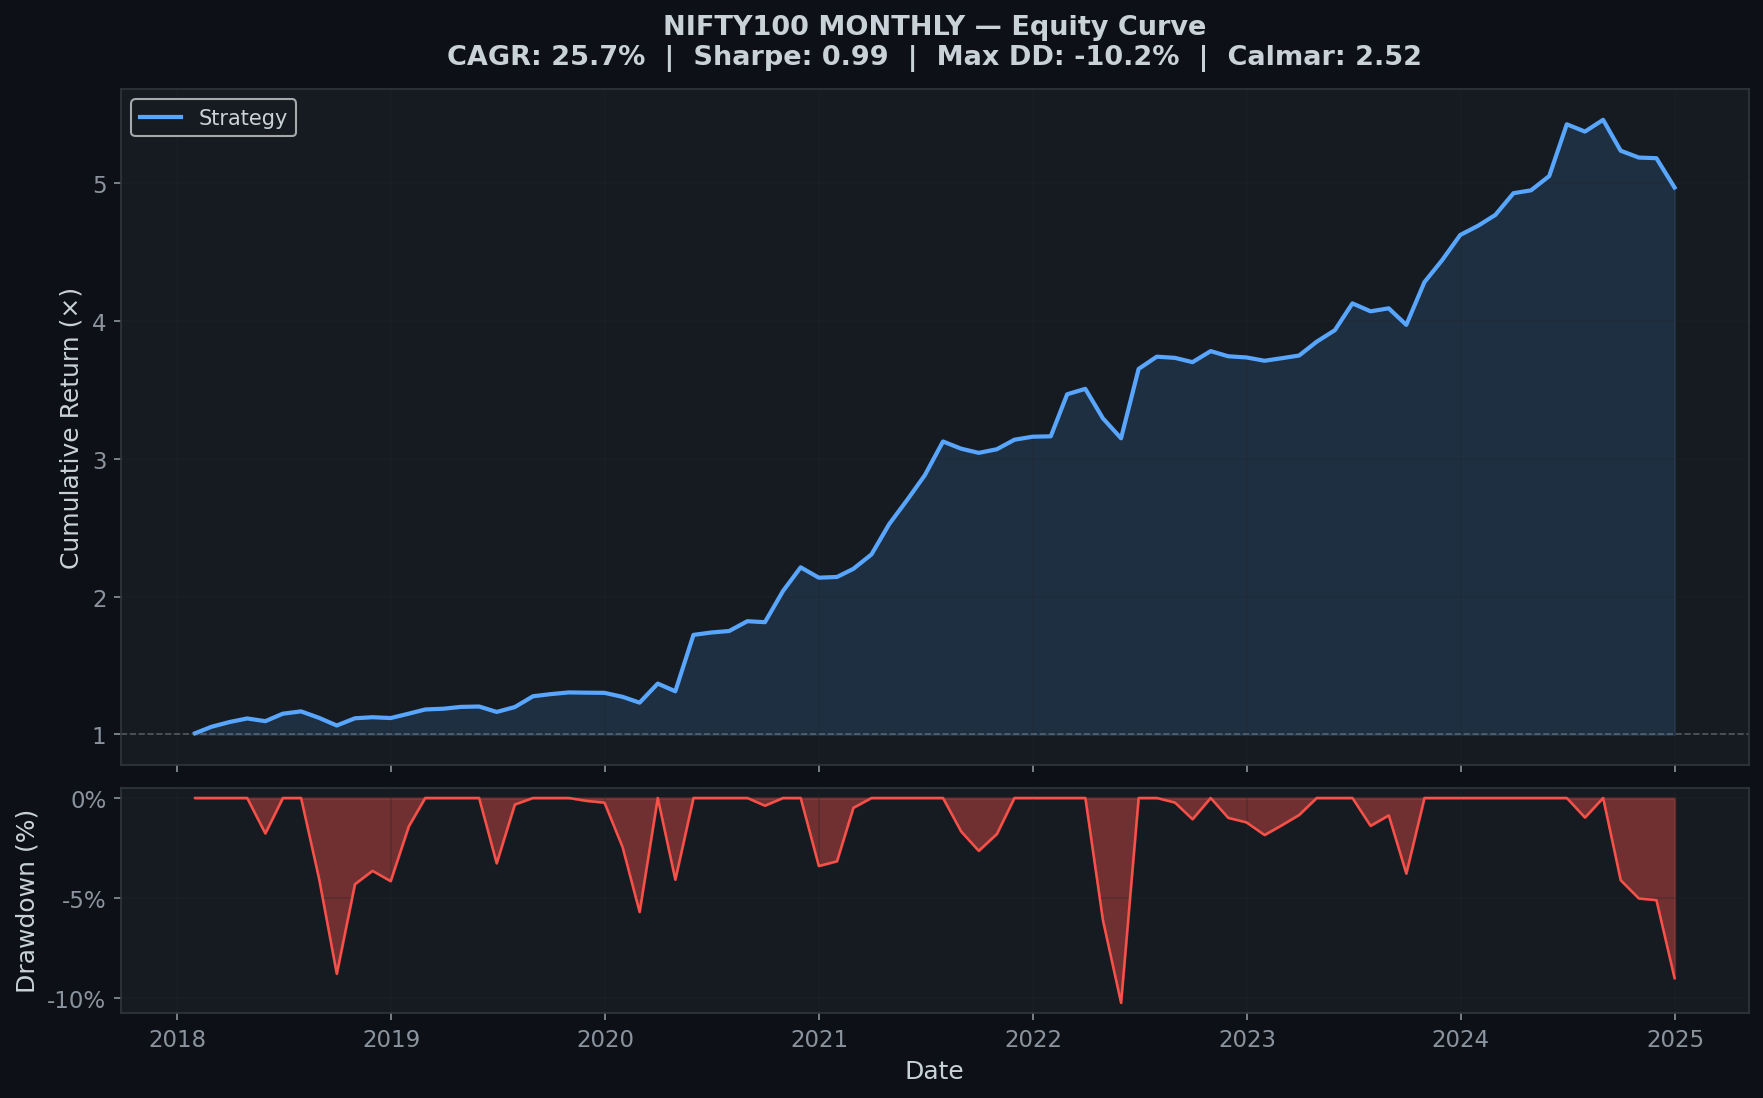
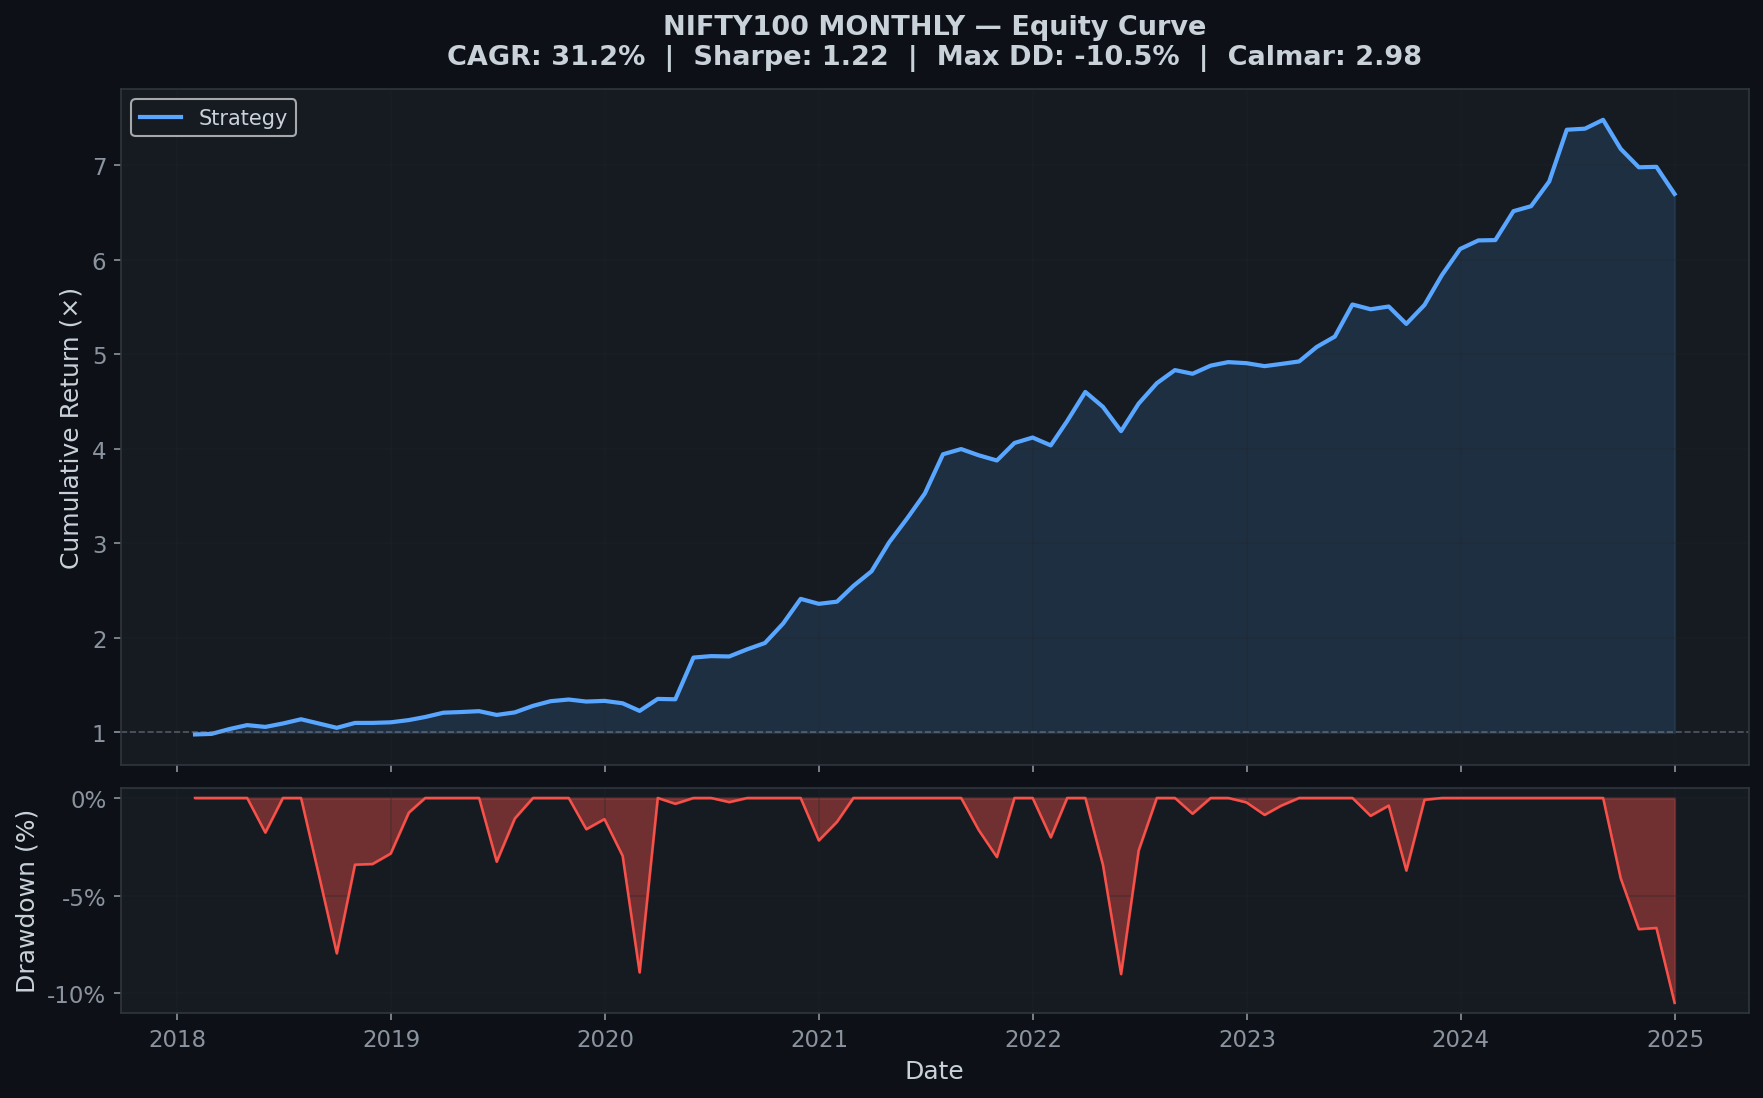
fix: validate_strategy.py missing monthly_prices in all simulate calls
All four simulate_portfolio calls in run_backtest and the three
sensitivity sweeps (threshold, stop-loss, regime sizing) were missing
monthly_prices=, so the stop-loss engine was falling back to the
date-alignment buggy path (daily_prices.iloc[0] as entry price).

Also fixes:
- padding_start extended to 24 months (eliminates HMM warm-up warning)
- entry_prices propagated through run_backtest return dict so sensitivity
  functions receive it cleanly

Charts regenerated: all 17 PNGs now reflect correct strategy numbers
(31.21% CAGR, 1.218 Sharpe, −10.48% DD, 2.977 Calmar, 71.43% Win Rate).

diff --git a/validate_strategy.py b/validate_strategy.py
@@ -163,11 +163,13 @@ def run_backtest(index_name, is_weekly=False, regime_method='learned_hmm'):
 
     # ── Regime Detection ─────────────────────────────────────────────────
     rebal_dates = sorted(res_df['date'].unique())
-    padding_start = (pd.to_datetime(rebal_dates[0]) - pd.DateOffset(months=12)).strftime('%Y-%m-%d')
+    padding_start = (pd.to_datetime(rebal_dates[0]) - pd.DateOffset(months=24)).strftime('%Y-%m-%d')
     regimes = get_regimes(rebal_dates, padding_start, DATA_END, method=regime_method)
 
     # ── Portfolio Simulation ─────────────────────────────────────────────
-    port_returns, holdings_counts, _ = simulate_portfolio(res_df, regimes, daily_prices)
+    entry_prices = monthly_prices if not is_weekly else None
+    port_returns, holdings_counts, _ = simulate_portfolio(res_df, regimes, daily_prices,
+                                                          monthly_prices=entry_prices)
     stats = performance_stats(port_returns, periods_per_year)
 
     freq_l = "wk" if is_weekly else "mo"
@@ -180,6 +182,7 @@ def run_backtest(index_name, is_weekly=False, regime_method='learned_hmm'):
         'res_df': res_df,
         'regimes': regimes,
         'daily_prices': daily_prices,
+        'entry_prices': entry_prices,
         'periods_per_year': periods_per_year,
         'index_name': index_name,
         'is_weekly': is_weekly,
@@ -487,7 +490,7 @@ def plot_mc_paths(paths, actual_path, port_returns, label):
     print("  [OK] mc_path_simulation.png")
 
 
-def sensitivity_threshold(res_df, regimes, daily_prices, periods_per_year, label):
+def sensitivity_threshold(res_df, regimes, daily_prices, periods_per_year, label, monthly_prices=None):
     """
     Sweep probability threshold from 0.50 to 0.70 and measure Sharpe & CAGR.
     """
@@ -500,7 +503,8 @@ def sensitivity_threshold(res_df, regimes, daily_prices, periods_per_year, label
     original_thresh = eng.PROB_THRESHOLD
     for thresh in thresholds:
         eng.PROB_THRESHOLD = thresh
-        port, counts, _ = simulate_portfolio(res_df, regimes, daily_prices)
+        port, counts, _ = simulate_portfolio(res_df, regimes, daily_prices,
+                                             monthly_prices=monthly_prices)
         s = performance_stats(port, periods_per_year)
         results.append({'threshold': thresh, 'sharpe': s['sharpe'], 'cagr': s['ann'],
                         'max_dd': s['dd'], 'win_rate': s['win']})
@@ -539,7 +543,7 @@ def sensitivity_threshold(res_df, regimes, daily_prices, periods_per_year, label
     return results_df
 
 
-def sensitivity_stoploss(res_df, regimes, daily_prices, periods_per_year, label):
+def sensitivity_stoploss(res_df, regimes, daily_prices, periods_per_year, label, monthly_prices=None):
     """
     Sweep stop-loss levels from -3% to -15% and measure CAGR + Max DD.
     """
@@ -555,7 +559,8 @@ def sensitivity_stoploss(res_df, regimes, daily_prices, periods_per_year, label)
         # Apply uniform stop across all regimes
         for regime in eng.REGIME_STOP:
             eng.REGIME_STOP[regime] = stop
-        port, counts, _ = simulate_portfolio(res_df, regimes, daily_prices)
+        port, counts, _ = simulate_portfolio(res_df, regimes, daily_prices,
+                                             monthly_prices=monthly_prices)
         s = performance_stats(port, periods_per_year)
         results.append({'stop_loss': stop * 100, 'sharpe': s['sharpe'], 'cagr': s['ann'],
                         'max_dd': s['dd'], 'calmar': s['calmar']})
@@ -598,7 +603,7 @@ def sensitivity_stoploss(res_df, regimes, daily_prices, periods_per_year, label)
     return results_df
 
 
-def sensitivity_regime_sizing(res_df, regimes, daily_prices, periods_per_year, label):
+def sensitivity_regime_sizing(res_df, regimes, daily_prices, periods_per_year, label, monthly_prices=None):
     """
     Sweep LowVol/MedVol sizing combos and measure Sharpe in a heatmap.
     """
@@ -617,7 +622,8 @@ def sensitivity_regime_sizing(res_df, regimes, daily_prices, periods_per_year, l
             eng.REGIME_SIZE['MedVol'] = n_size
             eng.REGIME_SIZE['HighVol'] = max(2, n_size - 1)
 
-            port, counts, _ = simulate_portfolio(res_df, regimes, daily_prices)
+            port, counts, _ = simulate_portfolio(res_df, regimes, daily_prices,
+                                                 monthly_prices=monthly_prices)
             s = performance_stats(port, periods_per_year)
             heatmap_data[i, j] = s['sharpe']
             print(f"    LowVol={b_size:2d}  MedVol={n_size}  HighVol={max(2, n_size-1)}  ->  Sharpe={s['sharpe']:.3f}")
@@ -820,12 +826,13 @@ def run_full_validation(index_name='nifty50', is_weekly=False, regime_method='le
     plot_mc_paths(paths, actual_path, port_returns, label)
 
     # ── 5. Parameter Sensitivity ─────────────────────────────────────────
+    entry_prices = data['entry_prices']
     sensitivity_threshold(data['res_df'], data['regimes'], data['daily_prices'],
-                          data['periods_per_year'], label)
+                          data['periods_per_year'], label, monthly_prices=entry_prices)
     sensitivity_stoploss(data['res_df'], data['regimes'], data['daily_prices'],
-                         data['periods_per_year'], label)
+                         data['periods_per_year'], label, monthly_prices=entry_prices)
     sensitivity_regime_sizing(data['res_df'], data['regimes'], data['daily_prices'],
-                              data['periods_per_year'], label)
+                              data['periods_per_year'], label, monthly_prices=entry_prices)
 
     # ── 6. Regime Performance ────────────────────────────────────────────
     plot_regime_performance(port_returns, data['regimes'], label)
